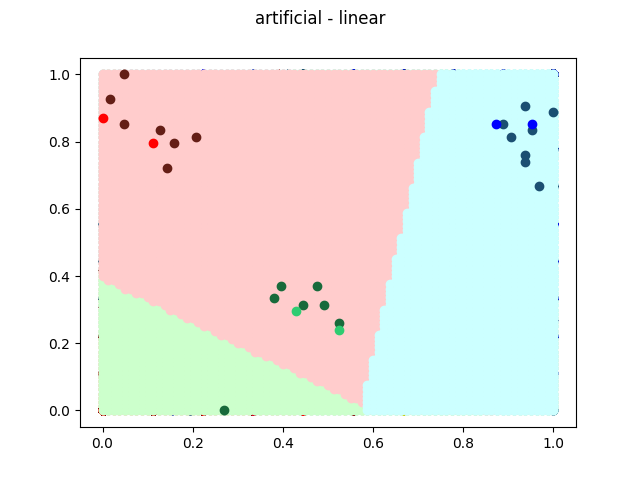
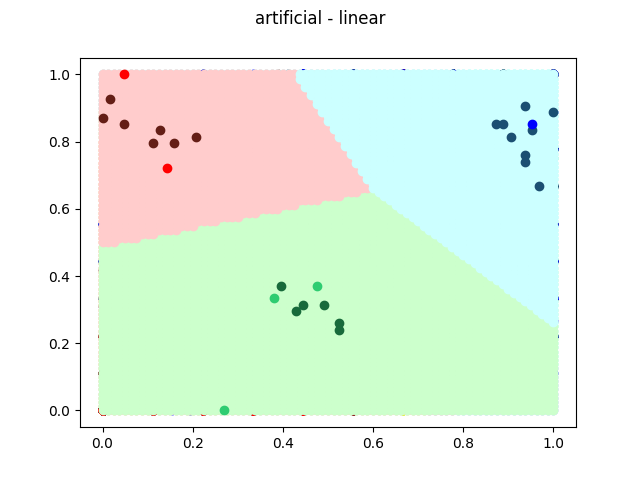
Corrigindo erros matemáticos nos discriminantes

diff --git a/main.py b/main.py
@@ -1,5 +1,5 @@
 from bayesian_classifier import Bayesian_classifier, DiscriminantType
-
+import numpy as np
 
 # datasets = ['iris.data']
 datasets = ['iris.data', 'coluna.data', 'dermatology.data', 'breast-cancer.data', 'artificial.data']
@@ -27,7 +27,7 @@ for dataset in datasets:
             correct_rates.append(correct_rate)
 
             if realization == 0:
-                Bayesian_classifier(type=type).plot_decision_surface('Datasets/%s' % dataset, dataset.split('.')[0] + ' - ' +type.value)
+                Bayesian_classifier(type=type).plot_decision_surface('Datasets/%s' % dataset, dataset.split('.')[0] + ' - ' +type.value, same_covariances=True)
 
 
         accuracy = sum(correct_rates)/len(correct_rates)
@@ -36,3 +36,51 @@ for dataset in datasets:
         print("O classificador bayesiano puro acertou %.2f" % (accuracy*100))
 
         print("O desvio padrão foi %.2f" % std)
+
+
+
+# Variando a matriz de covariância
+
+# for dataset in datasets:
+#
+#     print('estamos no dataset %s' % dataset)
+#
+#     for type in [DiscriminantType.LINEAR, DiscriminantType.QUADRATIC]:
+#     # for type in [DiscriminantType.LINEAR]:
+#
+#         correct_rates = []
+#
+#         for realization in range(0, 1):
+#
+#             # print('Realização %d' % realization)
+#             classifier = Bayesian_classifier(type=type)
+#
+#             x_train, y_train, x_test, y_test = classifier.load_data('Datasets/%s' % dataset)
+#             classifier.fit(x_train, y_train)
+#
+#
+#             average_covariance = np.zeros(list(classifier.covariances.values())[0].shape)
+#
+#             for key, value in enumerate(classifier.covariances):
+#                 average_covariance += classifier.covariances[key]
+#
+#             average_covariance /= len(classifier.covariances.keys())
+#
+#             for key, value in enumerate(classifier.covariances):
+#                 classifier.covariances[key] = average_covariance
+#
+#             print('Matriz de confusão para %s' % dataset)
+#             correct_rate = classifier.evaluate(x_test, y_test, conf_matrix=True)
+#             correct_rates.append(correct_rate)
+#
+#             if realization == 0:
+#
+#                 Bayesian_classifier(type=type).plot_decision_surface('Datasets/%s' % dataset, dataset.split('.')[0] + ' - ' +type.value, folder_to_save='Cov/')
+#
+#
+#         accuracy = sum(correct_rates)/len(correct_rates)
+#         std = (sum([(x-accuracy)**2 for x in correct_rates])/len(correct_rates))**0.5
+#
+#         print("O classificador bayesiano puro acertou %.2f" % (accuracy*100))
+#
+#         print("O desvio padrão foi %.2f" % std)

diff --git a/bayesian_classifier.py b/bayesian_classifier.py
@@ -218,6 +218,8 @@ class Bayesian_classifier:
         distance = np.array([(x_test - u1)]).transpose()
         distance_transp = x_test - u1
         det_cov = det(cov)
+        if det_cov == 0:
+            det_cov = 1
 
         try:
             inv_cov = inv(cov)
@@ -234,6 +236,7 @@ class Bayesian_classifier:
         distance = np.array([(x_test - u1)]).transpose()
         distance_transp = x_test - u1
         det_cov = det(cov)
+
         try:
             inv_cov = inv(cov)
         except:
@@ -351,7 +354,7 @@ class Bayesian_classifier:
     #
     #     plt.show()
 
-    def plot_decision_surface(self, filename, title):
+    def plot_decision_surface(self, filename, title, folder_to_save='Plots/', same_covariances=False):
 
         # parameter_combination = list(itertools.combinations(range(len(list(X[0]))), 2))
 
@@ -361,6 +364,18 @@ class Bayesian_classifier:
         x_test = x_test[:, :2]
 
         self.fit(x_train, y_train)
+
+        if same_covariances:
+
+            average_covariance = np.zeros(list(self.covariances.values())[0].shape)
+
+            for key, value in enumerate(self.covariances):
+                average_covariance += self.covariances[key]
+
+            average_covariance /= len(self.covariances.keys())
+
+            for key, value in enumerate(self.covariances):
+                self.covariances[key] = average_covariance
 
         clear_red = "#ffcccc"
         clear_blue = "#ccffff"
@@ -402,7 +417,7 @@ class Bayesian_classifier:
             plt.plot(input[0], input[1], 'ro', color=strong_colors[color_value])
 
         plt.suptitle(title)
-        plt.savefig('Plots/' + title + '.png')
+        plt.savefig(folder_to_save + title + '.png')
 
 
 
